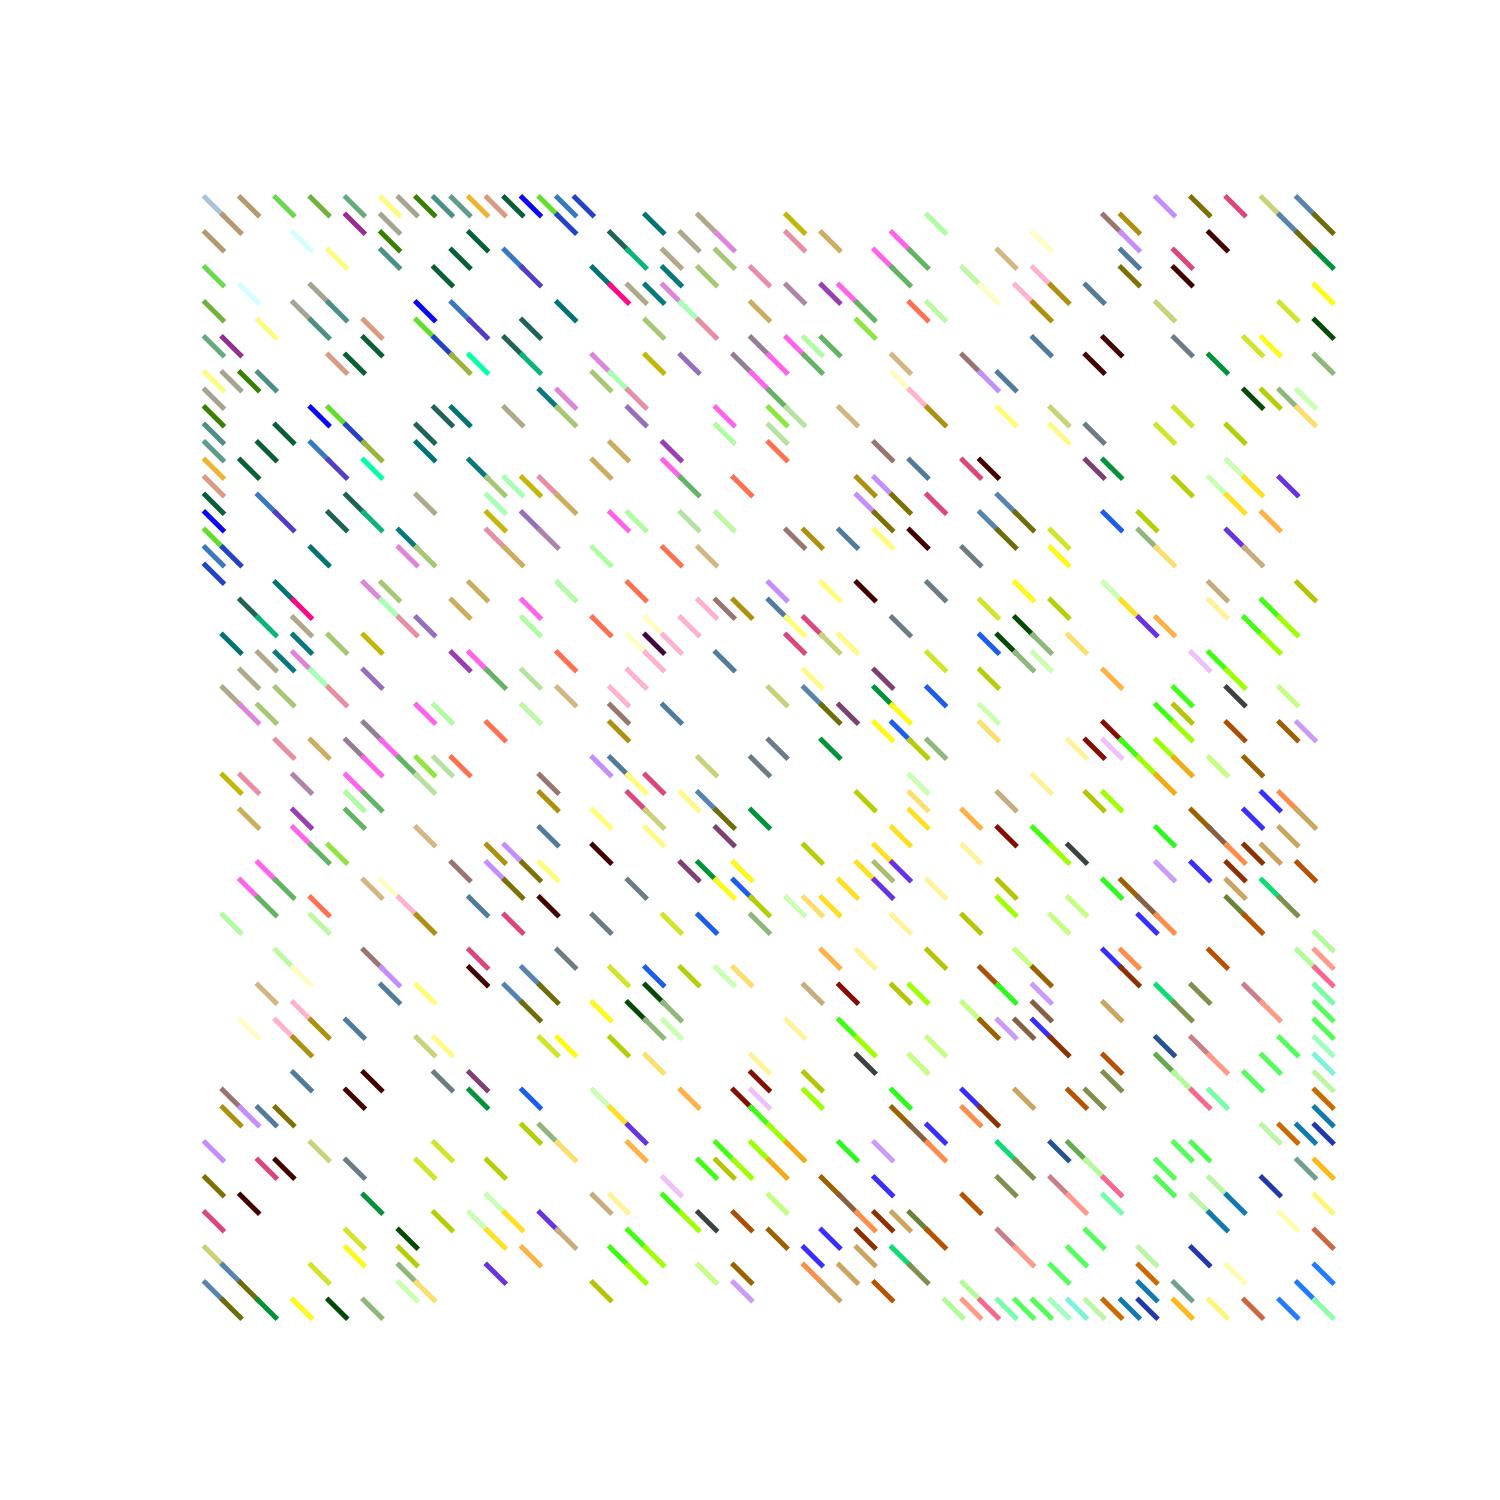
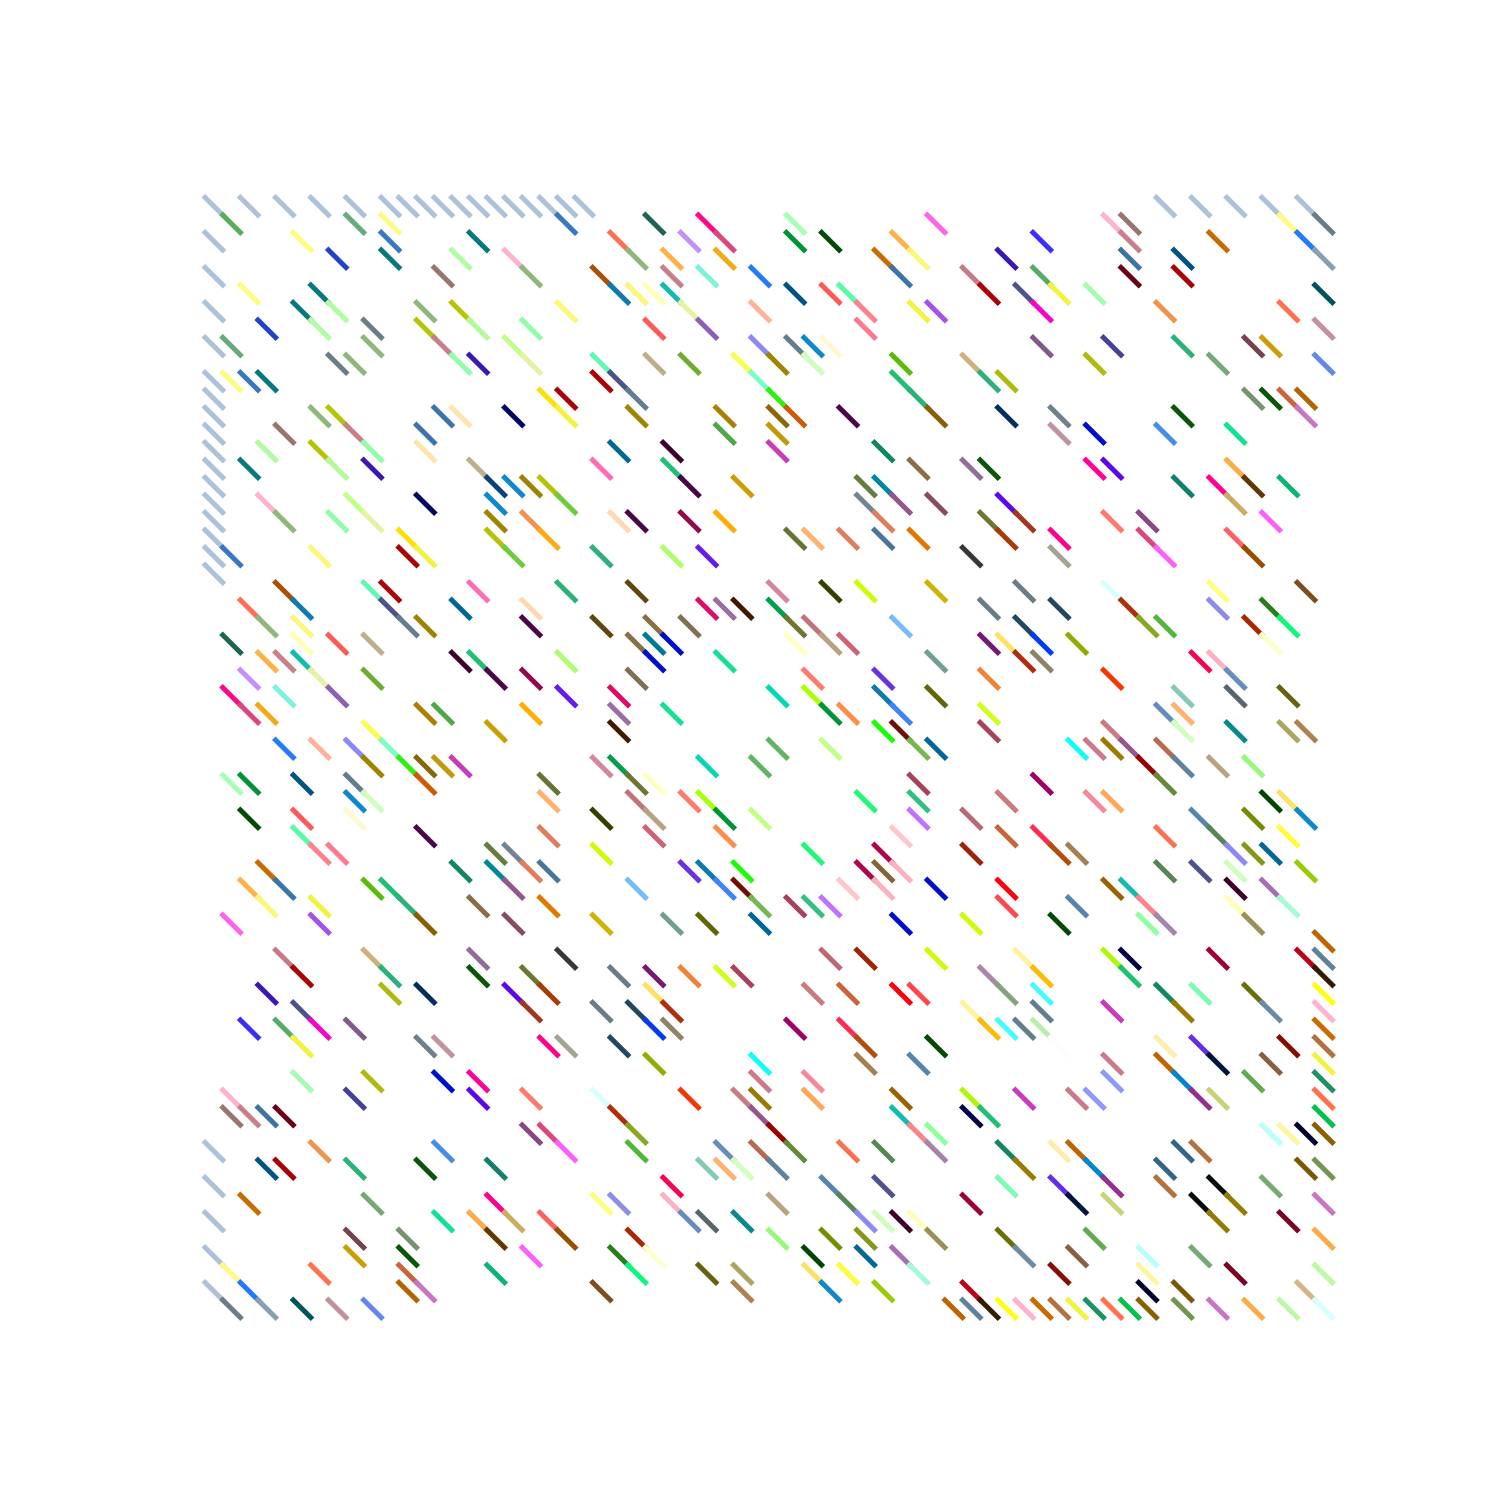
init

diff --git a/vaporwave-contracts/scripts/advanced_collectible/set_tokenuri.py b/vaporwave-contracts/scripts/advanced_collectible/set_tokenuri.py
@@ -9,7 +9,19 @@ from scripts.helpful_scripts import get_breed, OPENSEA_FORMAT
 #     "SHIBA_INU": "https://ipfs.io/ipfs/QmdryoExpgEQQQgJPoruwGJyZmz6SqV4FRTX1i73CT3iXn?filename=1-SHIBA_INU.json",
 #     "ST_BERNARD": "https://ipfs.io/ipfs/QmbBnUjyHHN7Ytq9xDsYF9sucZdDJLRkWz7vnZfrjMXMxs?filename=2-ST_BERNARD.json",
 # }
-sample_token_uri = "https://ipfs.io/ipfs/Qmcoo8mS8ecbAVriJBtMU2WhATvbSvVRE1oUXBA9HHEcTp?filename=vaporwave_1.json"
+token_uri_dict = {
+    0: "https://gateway.pinata.cloud/ipfs/QmcThHHfXBwRW2e7nM1mgkyyTJCqobZYhfmLJ94qP2Vj4M/vaporwave%230.json",
+    1: "https://gateway.pinata.cloud/ipfs/QmcThHHfXBwRW2e7nM1mgkyyTJCqobZYhfmLJ94qP2Vj4M/vaporwave%231.json",
+    2: "https://gateway.pinata.cloud/ipfs/QmcThHHfXBwRW2e7nM1mgkyyTJCqobZYhfmLJ94qP2Vj4M/vaporwave%232.json",
+    3: "https://gateway.pinata.cloud/ipfs/QmcThHHfXBwRW2e7nM1mgkyyTJCqobZYhfmLJ94qP2Vj4M/vaporwave%233.json",
+    4: "https://gateway.pinata.cloud/ipfs/QmcThHHfXBwRW2e7nM1mgkyyTJCqobZYhfmLJ94qP2Vj4M/vaporwave%234.json",
+    5: "https://gateway.pinata.cloud/ipfs/QmcThHHfXBwRW2e7nM1mgkyyTJCqobZYhfmLJ94qP2Vj4M/vaporwave%235.json",
+    6: "https://gateway.pinata.cloud/ipfs/QmcThHHfXBwRW2e7nM1mgkyyTJCqobZYhfmLJ94qP2Vj4M/vaporwave%236.json",
+    7: "https://gateway.pinata.cloud/ipfs/QmcThHHfXBwRW2e7nM1mgkyyTJCqobZYhfmLJ94qP2Vj4M/vaporwave%237.json",
+    8: "https://gateway.pinata.cloud/ipfs/QmcThHHfXBwRW2e7nM1mgkyyTJCqobZYhfmLJ94qP2Vj4M/vaporwave%238.json",
+    9: "https://gateway.pinata.cloud/ipfs/QmcThHHfXBwRW2e7nM1mgkyyTJCqobZYhfmLJ94qP2Vj4M/vaporwave%239.json",
+    10: "https://gateway.pinata.cloud/ipfs/QmcThHHfXBwRW2e7nM1mgkyyTJCqobZYhfmLJ94qP2Vj4M/vaporwave%2310.json",
+}
 
 def main():
     print("Working on " + network.show_active())
@@ -20,13 +32,17 @@ def main():
         + str(number_of_advanced_collectibles)
     )
     for token_id in range(number_of_advanced_collectibles):
+        print(token_id)
         # breed = get_breed(advanced_collectible.tokenIdToBreed(token_id))
         if not advanced_collectible.tokenURI(token_id).startswith("https://"):
             print("Setting tokenURI of {}".format(token_id))
             set_tokenURI(token_id, advanced_collectible,
-                         sample_token_uri)
+                         token_uri_dict[int(token_id)])
         else:
             print("Skipping {}, we already set that tokenURI!".format(token_id))
+
+    # token_id = 1
+    # set_tokenURI(token_id, advanced_collectible, token_uri_dict[int(token_id)])
 
 
 def set_tokenURI(token_id, nft_contract, tokenURI):

diff --git a/vaporwave-contracts/scripts/advanced_collectible/create_collectible.py b/vaporwave-contracts/scripts/advanced_collectible/create_collectible.py
@@ -7,12 +7,12 @@ import time
 def main():
     dev = accounts.add(config["wallets"]["from_key"])
     advanced_collectible = AdvancedCollectible[len(AdvancedCollectible) - 1]
-    fund_with_link(advanced_collectible.address)
+    # fund_with_link(advanced_collectible.address)
     transaction = advanced_collectible.createCollectible("None", {"from": dev})
     print("Waiting on second transaction...")
     # wait for the 2nd transaction
     transaction.wait(1)
-    time.sleep(35)
+    time.sleep(30)
     requestId = transaction.events["requestedCollectible"]["requestId"]
     token_id = advanced_collectible.requestIdToTokenId(requestId)
     # breed = get_breed(advanced_collectible.tokenIdToBreed(token_id))

diff --git a/vaporwave-contracts/scripts/advanced_collectible/get_tokens.py b/vaporwave-contracts/scripts/advanced_collectible/get_tokens.py
@@ -8,4 +8,4 @@ def main():
     advanced_collectible = AdvancedCollectible[len(SimpleCollectible) - 1]
     # breakpoint()
     number_of_advanced_collectibles = advanced_collectible.tokenCounter()
-    print(number_of_advanced_collectibles)
+    print(advanced_collectible.address, number_of_advanced_collectibles)

diff --git a/vaporwave-autogen/autogen/autogen_images.py b/vaporwave-autogen/autogen/autogen_images.py
@@ -108,7 +108,7 @@ def plot_glyph(art):
     c_num = []
     for x, chars in enumerate(plotting_str):
         for y, char in enumerate(chars):
-            c = colors[(x+y) % 949]
+            c = colors[(x*y) % 949]
             c_num.append(c)
             if char == ".":
                 continue

diff --git a/vaporwave-contracts/scripts/advanced_collectible/deploy_advanced.py b/vaporwave-contracts/scripts/advanced_collectible/deploy_advanced.py
@@ -15,5 +15,5 @@ def main():
         {"from": dev},
         publish_source=publish_source,
     )
-    fund_with_link(advanced_collectible.address)
+    # fund_with_link(advanced_collectible.address)
     return advanced_collectible

diff --git a/README.md b/README.md
@@ -1,0 +1,23 @@
+# Vaporwave
+
+## Vaporwave Collection
+A generative plot-based art collection including images, music, etc.
+
+## Vaporwave Membership
+A dao community for the whilelist.
+
+### How to run
+```
+brownie run scripts/<.py> --network rinkeby
+```
+
+### Using
+1. [infura](https://infura.io)
+2. [pinata](https://app.pinata.cloud/)
+3. [openzeppelin](https://docs.openzeppelin.com/)
+4. [chainlink](https://docs.chain.link)
+
+## Platform
+1. [OpenSea](https://testnets.opensea.io/collection/vaporwave-collection-v2)
+
+![vaporwave #0](https://github.com/zhourunlai/vaporwave/blob/main/vaporwave-autogen/files/images/vaporwave_0.png)
